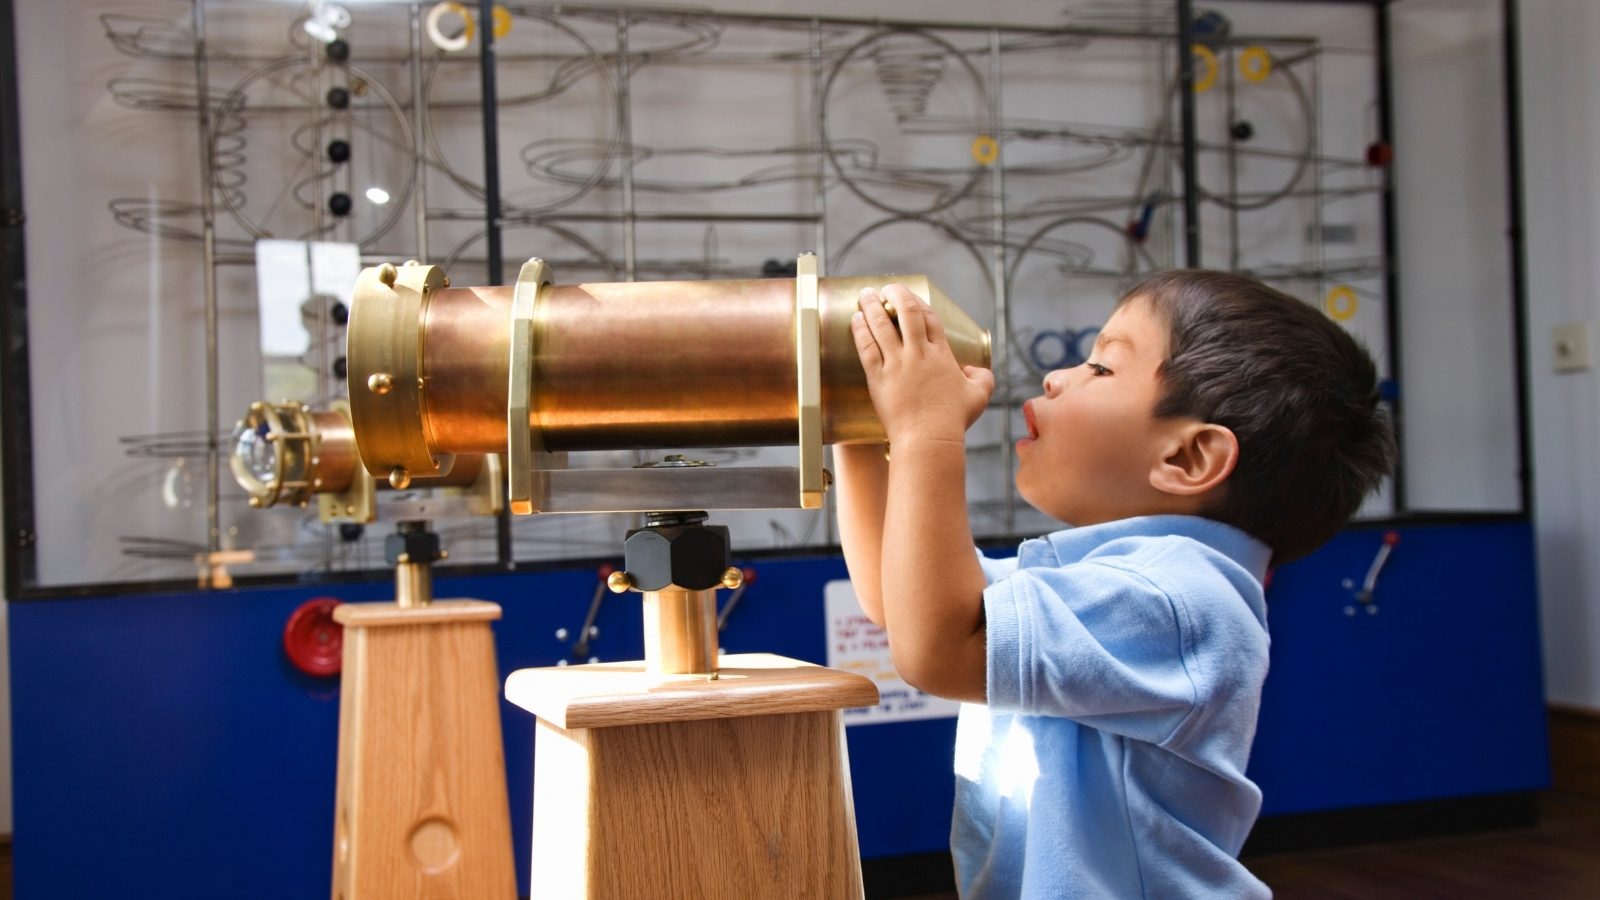
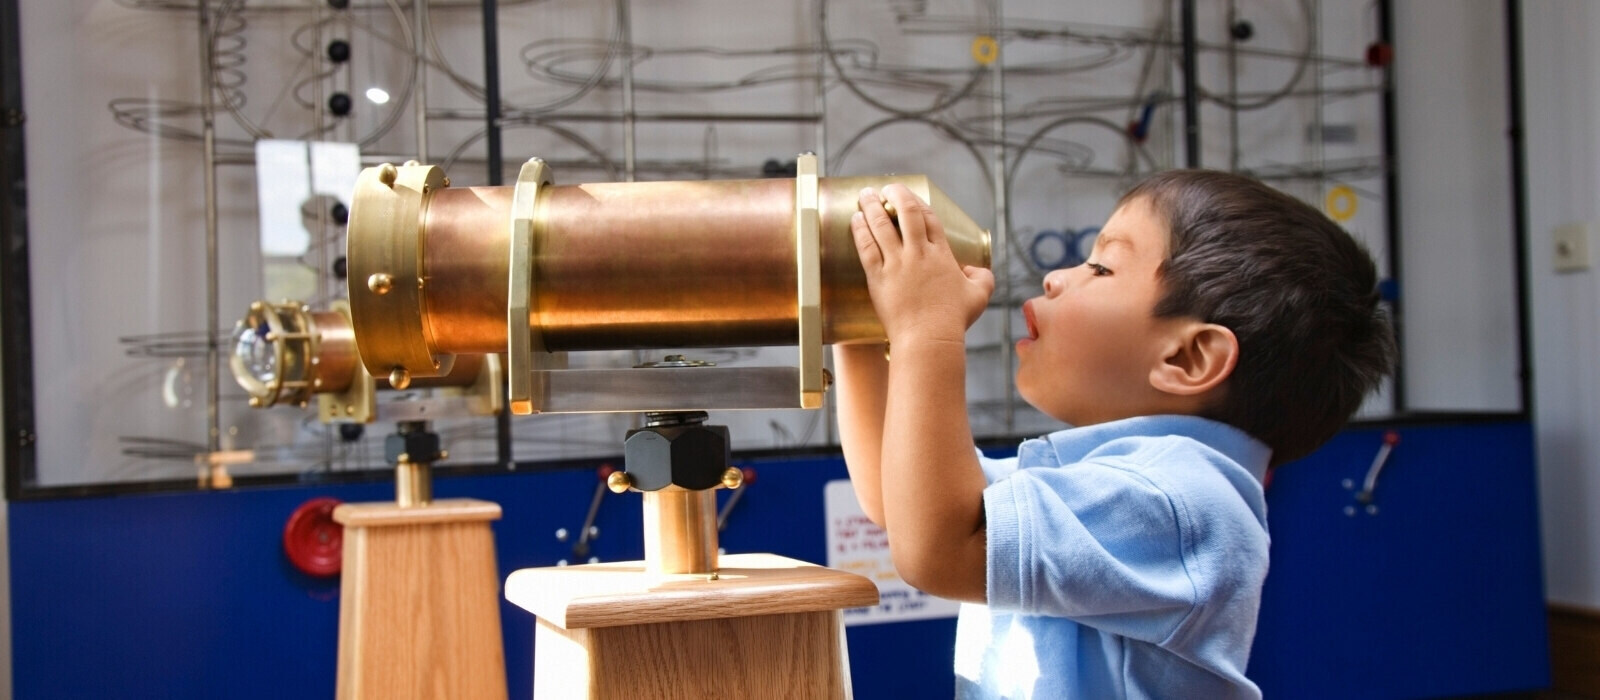
update image size and removed a line of commented out code

diff --git a/css/partials/layout.css b/css/partials/layout.css
@@ -55,10 +55,6 @@ header {
   color: var(--white);
 }
 
-.desktop-nav__logo {
-  /* border: solid 1px yellow; */
-}
-
 .desktop-nav__menu {
   display: -webkit-flex;
   display: -moz-flex;
